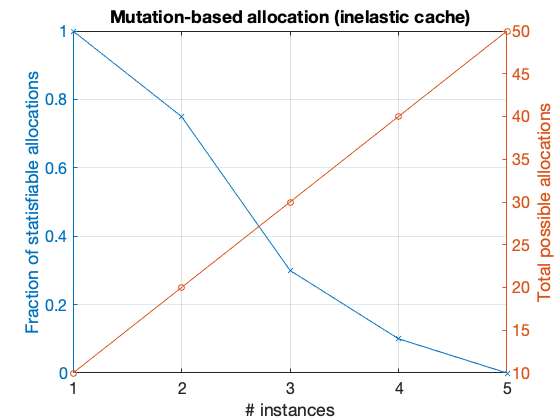
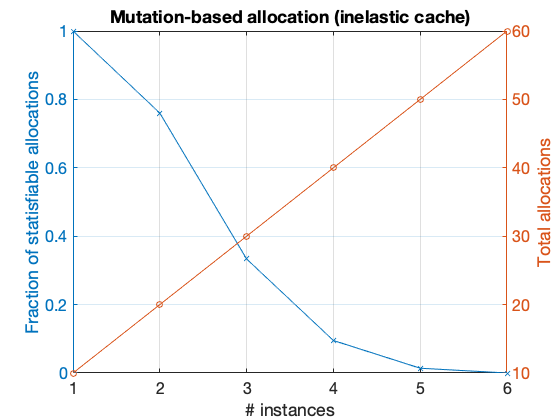
bug fix in randomized variant

diff --git a/malloc/sim.m b/malloc/sim.m
@@ -3,6 +3,7 @@ clc
 
 MAX_INSTANCES = 10;
 MAX_MUTATIONS = 10;
+NUM_ATTEMPTS = 10;
 
 midx = [0 0 1 0 0 0 1 0 0 0 0 0 0 0 0 0 0 0 0 0];
 constr_max_stage = [0 0 7 0 0 0 20 0 0 0 0 0 0 0 0 0 0 0 0 0];
@@ -13,13 +14,21 @@ data = [];
 data2 = [];
 exec_time = [];
 for i = 1:MAX_INSTANCES
-    [nValid, nTotal] = getNumValidAllocations(i, midx, constr_max_stage, plen, MAX_MUTATIONS);
-%     f = @() getNumValidAllocations(i, midx, constr_max_stage, plen, MAX_MUTATIONS);
-%     t = timeit(f);
-    t = 0;
-    exec_time = [exec_time t];
+    sumValid = 0;
+    sumTotal = 0;
+    sumTime = 0;
+    for j = 1:NUM_ATTEMPTS
+        [nValid, nTotal] = getNumValidAllocations(i, midx, constr_max_stage, plen, MAX_MUTATIONS);
+        f = @() getNumValidAllocations(i, midx, constr_max_stage, plen, MAX_MUTATIONS);
+        t = timeit(f);
+        sumValid = sumValid + nValid;
+        sumTotal = sumTotal + nTotal;
+        sumTime = sumTime + t;
+    end
     X = [X i];
-    fracValid = (nValid / nTotal);
+    t = sumTime / NUM_ATTEMPTS;
+    exec_time = [exec_time t];
+    fracValid = (sumValid / sumTotal);
     data = [data; fracValid];
     data2 = [data2; nTotal];
     if nValid == 0
@@ -37,7 +46,7 @@ if MAX_MUTATIONS == 0
 else
     plot(X, data2, '-o');
 end
-ylabel('Total possible allocations');
+ylabel('Total allocations');
 grid on
 title('Mutation-based allocation (inelastic cache)');
 xlabel('# instances');

diff --git a/malloc/getNumValidAllocations.m b/malloc/getNumValidAllocations.m
@@ -22,7 +22,8 @@ function [numValid, numTotal] = getNumValidAllocations(numInstances, midx, const
         preSum = 0;
         for j = 1:numInstances
             xidx = preSum + cfg(j);
-            D(j, : ) = M(xidx, : );
+            demand = M(xidx, : );
+            D(j, : ) = demand;
             preSum = sum(numMutants(1:j));
         end
         d = c' * D;

diff --git a/malloc/enumerateDemands.m b/malloc/enumerateDemands.m
@@ -22,7 +22,7 @@ function [enumSize, demands] = enumerateDemands(numMutations, maxMutations)
                 j = j + 1;
             end
         end
+        demands = demands + 1;
     end
-    demands = demands + 1;
 end
 
